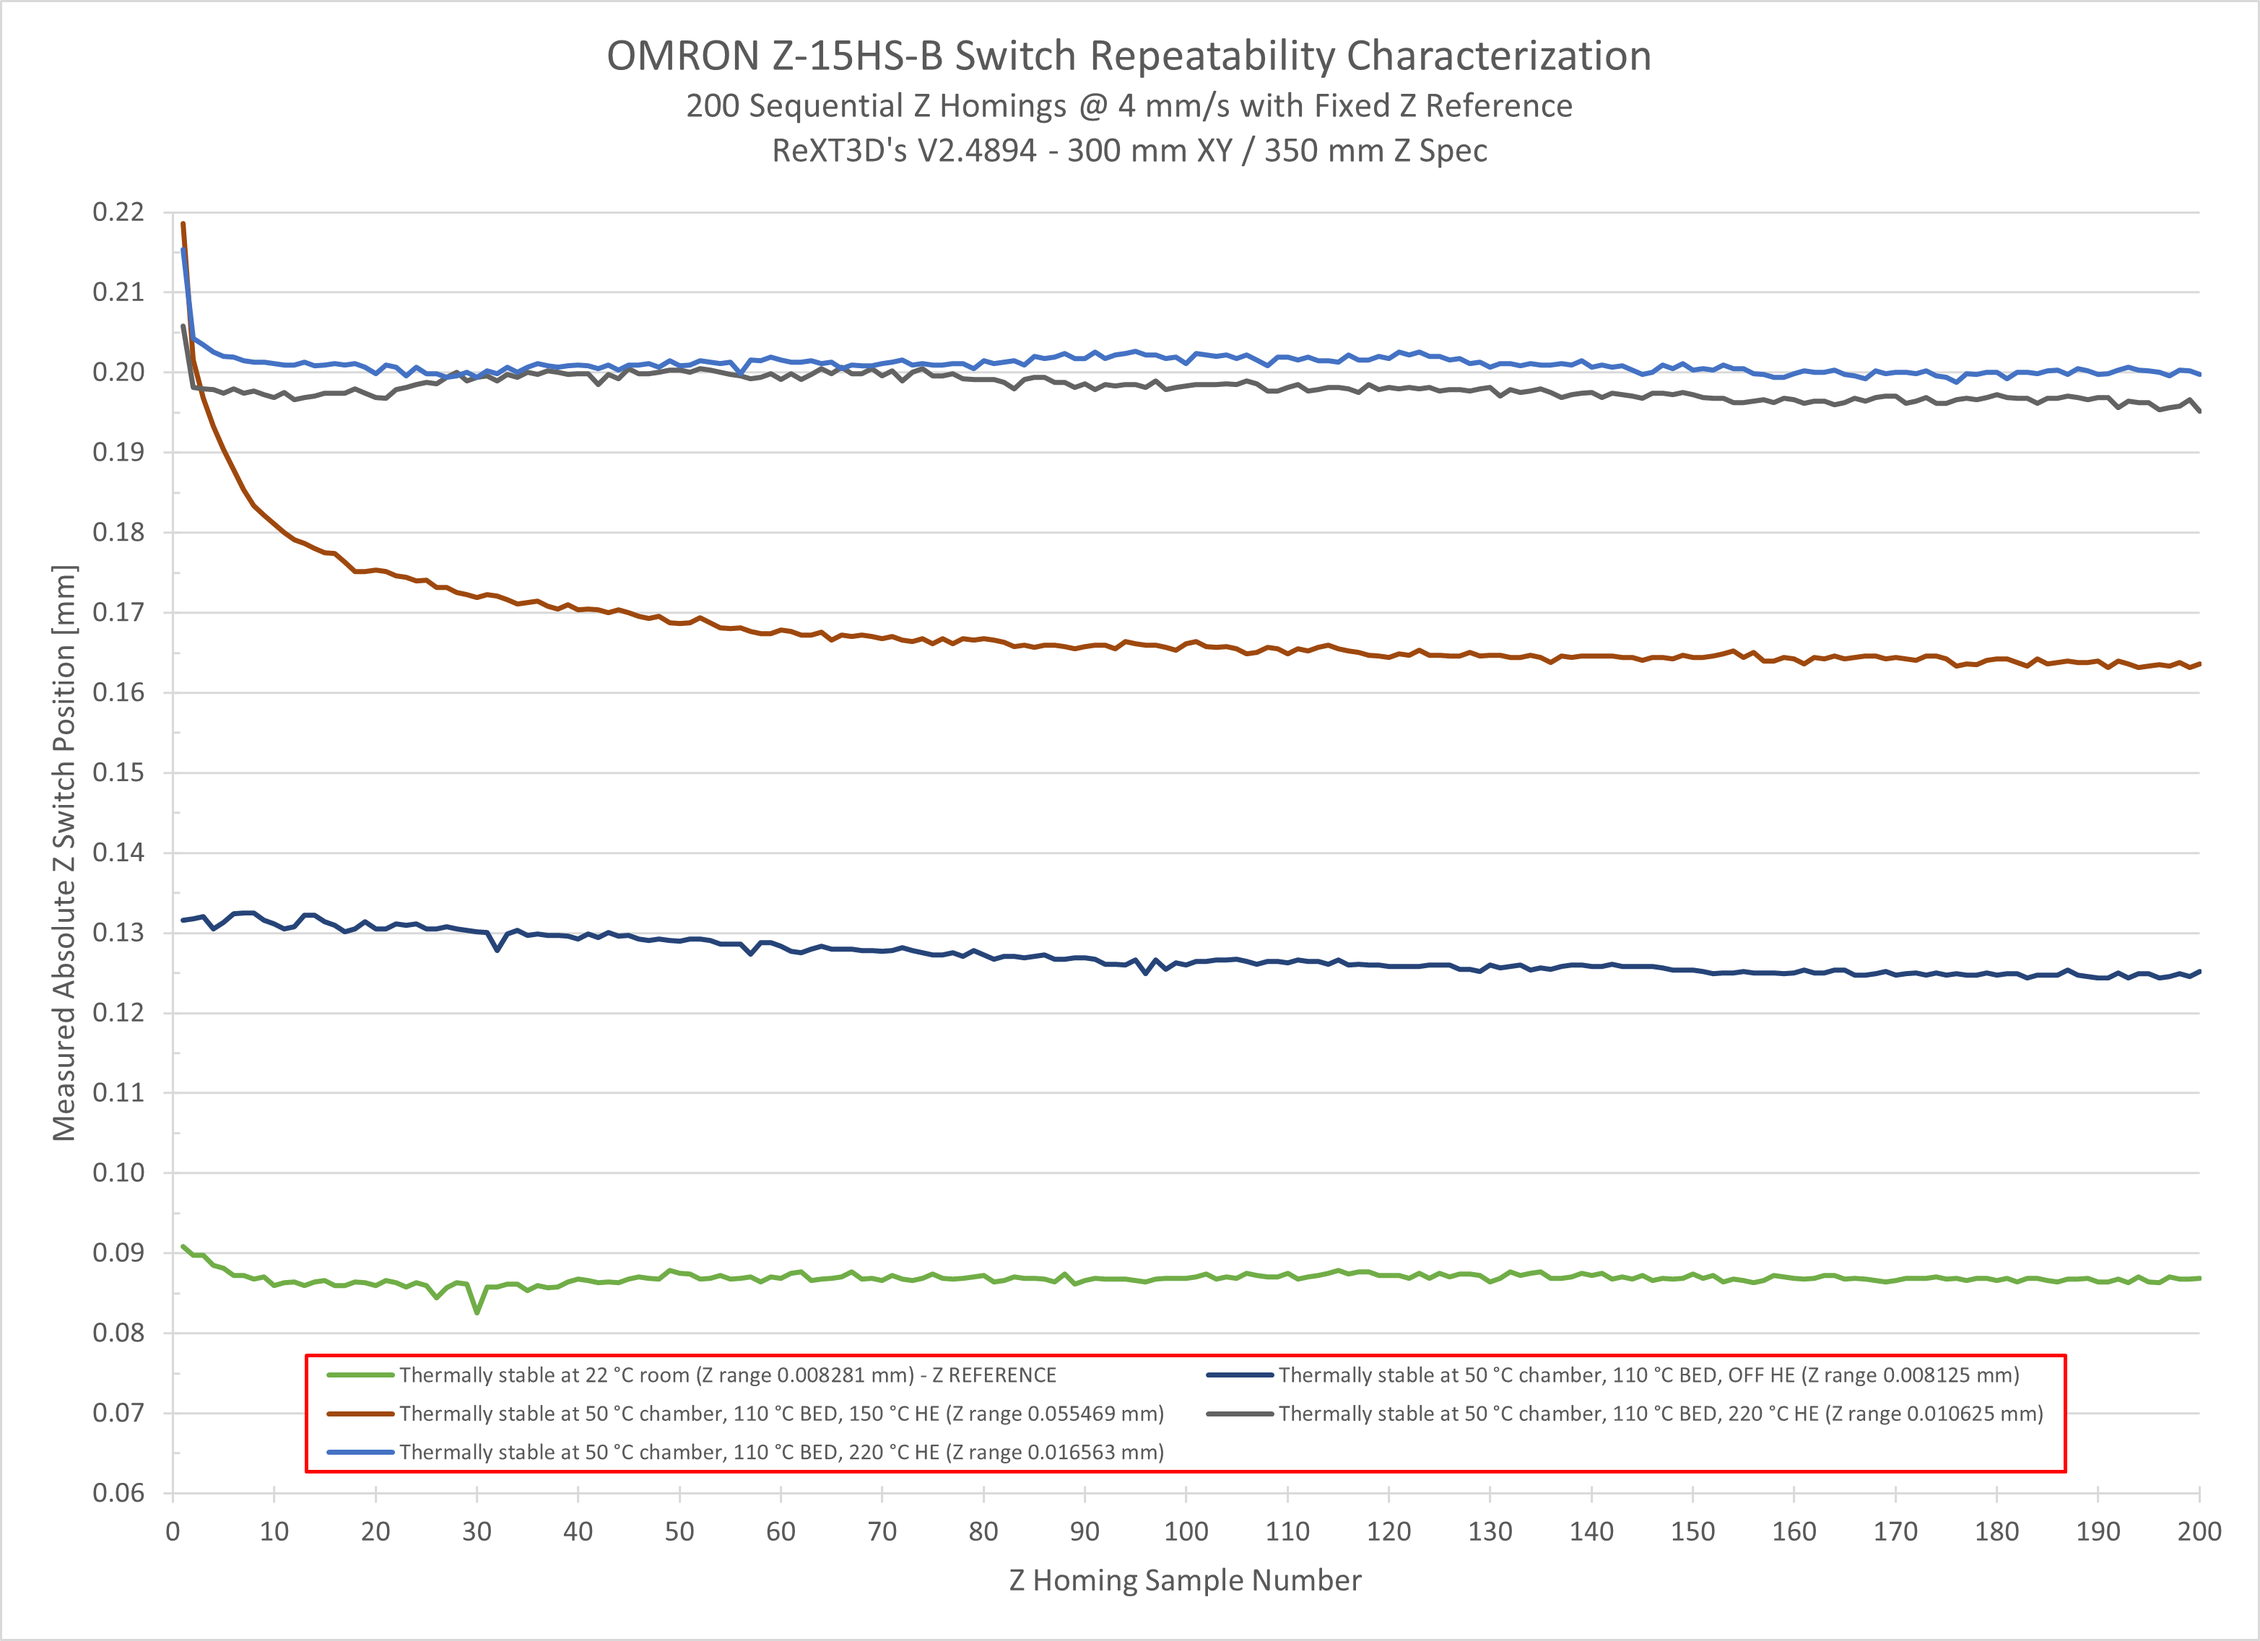
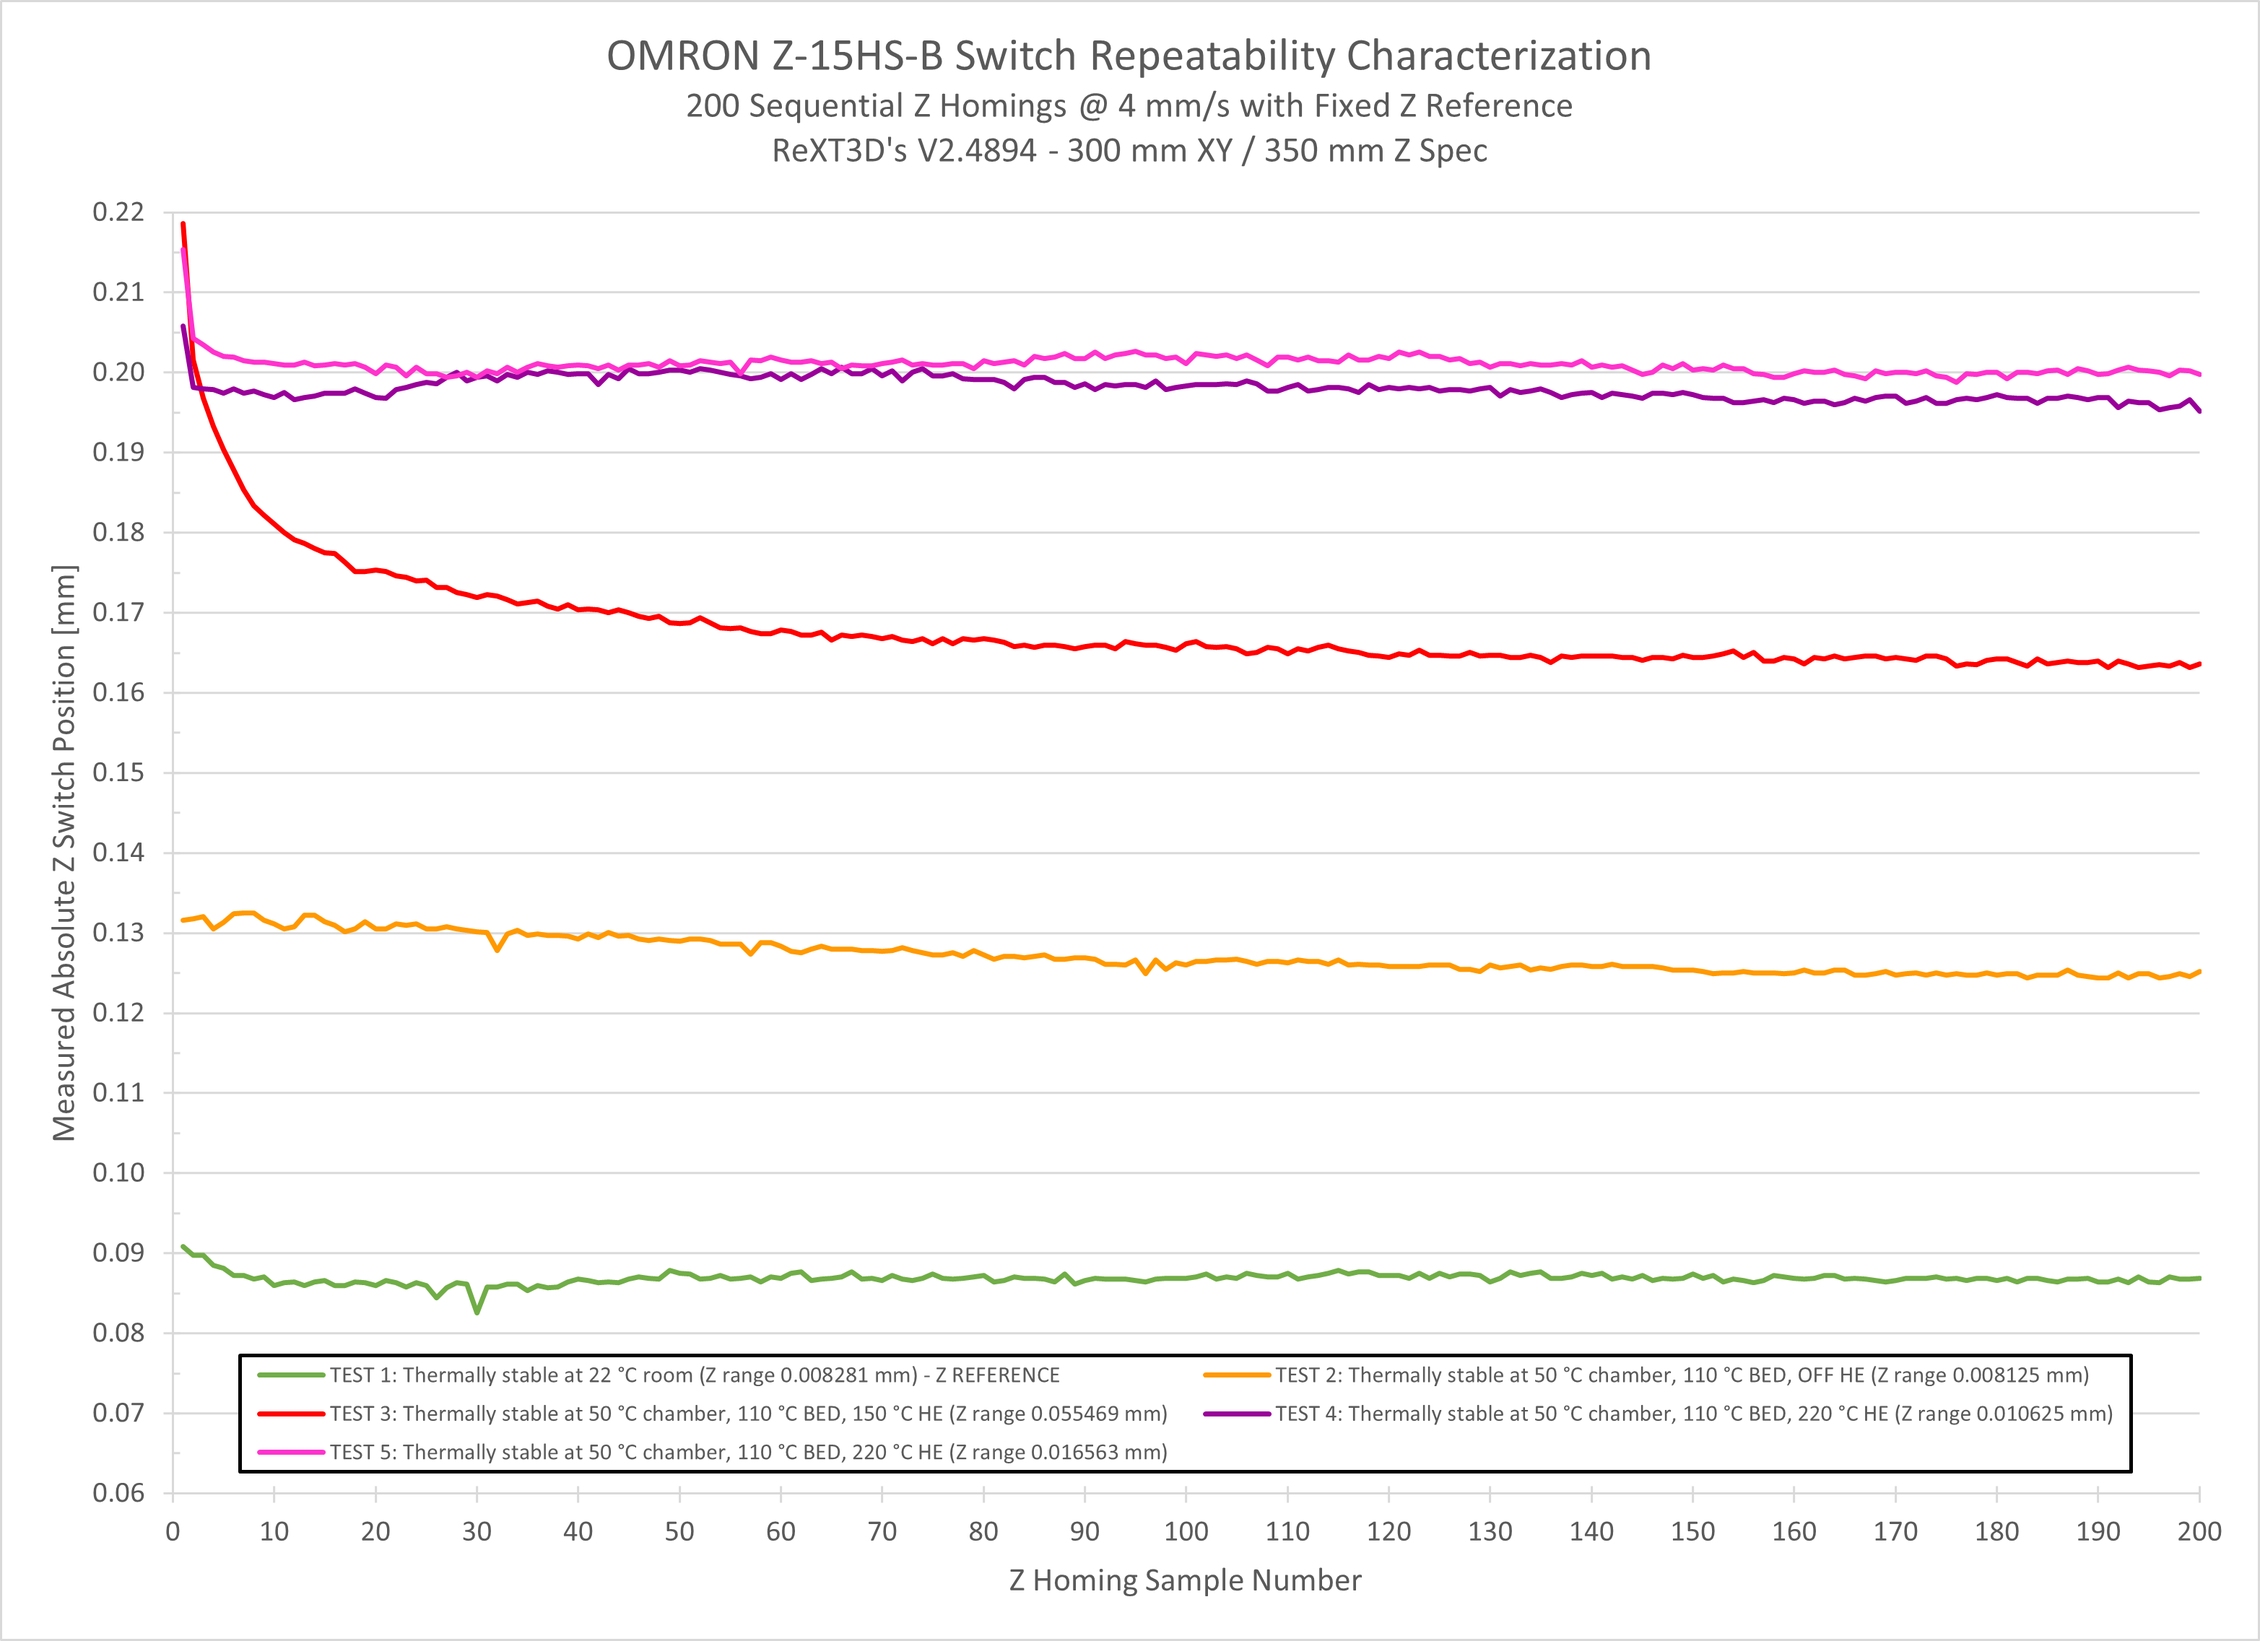
Improve plot legibility

diff --git a/Z Homing Accuracy & Repeatability/README.md b/Z Homing Accuracy & Repeatability/README.md
@@ -25,7 +25,7 @@ This data only generated more questions. It clearly shows that not only the OMRO
 
 Before going any further I decided to investigate the OMRON Z-15HS-B microswitch accuracy as a function of the plunger velocity.  I did this to identify if there potentially was a "sweet spot" in the homing speed of the nozzle that would result in optimal repeatability of the switch - after all it is a mechanical device that will respond differently to different dynamic input conditions.  This quick and dirty test did not provide any revelations, but it did indicate that the Z stop reading error started very slowly but gradually increasing once the homing speed exceeded 10 mm/s.  I did not investigate this any further, but I suspect that either Klipper timing or more likely the mechanical switch response time becomes a more significant factor at these higher speeds.
 
-Armed with this information I configured the Z axis (second) homing speed to a conservative 4 mm/s and proceeded with an extensive switch repeatability test.  This time I used another excellent Klipper "plugin":  [probe_accuracy.py](https://github.com/KiloQubit/probe_accuracy/blob/main/probe_accuracy.py) by **KiloQubit**.  I used the following general workflow to obtain the data that I was looking for:
+Armed with this information I configured the Z axis (second) homing speed to a conservative 4 mm/s and proceeded with an extensive switch repeatability test.  This time I used another excellent Klipper "plugin":  [probe_accuracy.py](https://github.com/KiloQubit/probe_accuracy/blob/main/probe_accuracy.py) by **KiloQubit**.  I used the following general workflow to obtain data that I was looking for from five sequential tests:
 
 1. With printer fully thermally stabilized (overnight) at room temperature, home the printer and then collect data from 200 (two hundred) sequential Z homing requests by issuing the following command:
    `PROBE_Z_ACCURACY PROBE_SPEED=4.0 LIFT_SPEED=10.0 SAMPLES=200 SAMPLE_RETRACT_DIST=2.0`
